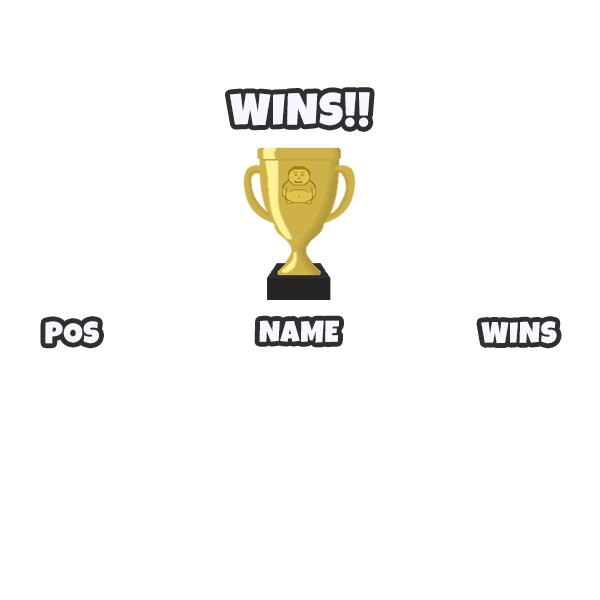
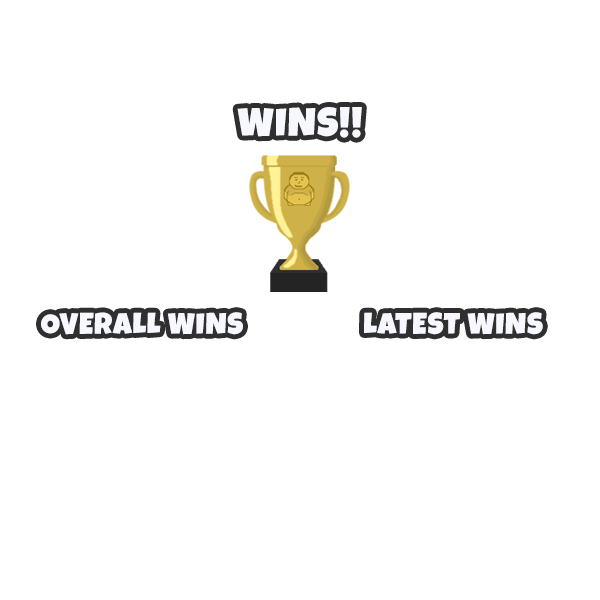
Update ScoreBoards

Changed region(s): [[0.06, 0.12, 0.63, 0.6], [0.6, 0.51, 0.96, 0.6]]

diff --git a/VictoryScreen.js b/VictoryScreen.js
@@ -1,4 +1,4 @@
-import { COLOUR } from './SharedConstants.js';
+import { COLOUR, truncateString } from './SharedConstants.js';
 import { db } from './Game.js';
 
 export default class VictoryScreen {
@@ -42,6 +42,7 @@ export default class VictoryScreen {
   update(deltaTime) {}
 
   updateDB(userName) {
+    const winTime = firebase.firestore.Timestamp.now().seconds;
     if (userName) {
       db.collection('winners')
         .where('userName', '==', userName)
@@ -53,6 +54,7 @@ export default class VictoryScreen {
               .add({
                 userName: userName,
                 winsTotal: 1,
+                lastWinTimeStamp: winTime,
               })
               .then(function (docRef) {})
               .catch(function (error) {
@@ -62,7 +64,13 @@ export default class VictoryScreen {
             querySnapshot.forEach(function (doc) {
               db.collection('winners')
                 .doc(doc.id)
-                .set({ winsTotal: doc.data().winsTotal + 1 }, { merge: true })
+                .set(
+                  {
+                    winsTotal: doc.data().winsTotal + 1,
+                    lastWinTimeStamp: winTime,
+                  },
+                  { merge: true }
+                )
                 .then(function () {})
                 .catch(function (error) {
                   console.error('Error writing document: ', error);
@@ -78,22 +86,43 @@ export default class VictoryScreen {
 
   draw(ctx) {
     ctx.drawImage(this.backGroundImage, 300, 50, 600, 600);
-    ctx.font = '50px luckiest_guyregular';
+    ctx.font = '40px luckiest_guyregular';
     ctx.fillStyle = this.winningTeamColour;
     ctx.textAlign = 'center';
 
-    ctx.fillText(`${this.winningTeam} BOY`, 605, 120);
+    ctx.fillText(`${this.winningTeam} BOY`, 605, 100);
+
+    if (this.winnerUserName) {
+      ctx.font = '30px luckiest_guyregular';
+      ctx.fillStyle = 'black';
+      ctx.textAlign = 'center';
+      ctx.fillText(this.winnerUserName, 605, 140);
+    }
 
     var startPosition = 430;
-    ctx.font = '30px luckiest_guyregular';
+    ctx.font = '24px luckiest_guyregular';
     ctx.fillStyle = 'black';
-    ctx.textAlign = 'center';
+    ctx.textAlign = 'left';
     if (this.game.topScorers) {
-      this.game.topScorers.forEach(function (element, i) {
-        ctx.fillText(i + 1, 370, startPosition);
-        ctx.fillText(element.userName, 605, startPosition);
-        ctx.fillText(element.winsTotal, 820, startPosition);
-        startPosition += 50;
+      this.game.topScorers.forEach(function (element) {
+        ctx.fillText(truncateString(element.userName), 320, startPosition);
+        ctx.fillText(element.winsTotal, 565, startPosition);
+        startPosition += 40;
+      });
+    }
+
+    var latestStartPosition = 430;
+    if (this.game.latestScorers) {
+      ctx.font = '24px luckiest_guyregular';
+      ctx.fillStyle = 'black';
+      ctx.textAlign = 'center';
+      this.game.latestScorers.forEach(function (element) {
+        ctx.fillText(
+          truncateString(element.userName),
+          750,
+          latestStartPosition
+        );
+        latestStartPosition += 40;
       });
     }
   }

diff --git a/Game.js b/Game.js
@@ -15,6 +15,7 @@ export default class Game {
   constructor(gameWidth, gameHeight, ctx, gameArea) {
     this.gameArea = gameArea;
     this.topScorers = [];
+    this.latestScorers = [];
     this.ctx = ctx;
     this.glassGame = null;
     this.gameWidth = gameWidth;
@@ -82,6 +83,7 @@ export default class Game {
     this.allPlayers = [];
     this.extractedPlayers = [];
     this.getLeaderboard();
+    this.getLatestWinners();
   }
 
   getLeaderboard() {
@@ -97,6 +99,26 @@ export default class Game {
                 id: doc.id,
                 userName: doc.data().userName,
                 winsTotal: doc.data().winsTotal,
+              });
+            } catch (error) {
+              console.log(error);
+            }
+          }
+        });
+      });
+  }
+  getLatestWinners() {
+    db.collection('winners')
+      .orderBy('lastWinTimeStamp', 'desc')
+      .limit(5)
+      .get()
+      .then((snapshot) => {
+        snapshot.docs.forEach((doc) => {
+          if (doc) {
+            try {
+              this.latestScorers.push({
+                id: doc.id,
+                userName: doc.data().userName,
               });
             } catch (error) {
               console.log(error);
@@ -199,6 +221,8 @@ export default class Game {
       );
       if (foundPlayer) {
         winnerUserName = foundPlayer.user;
+        this.latestScorers.unshift(winnerUserName);
+        this.latestScorers.pop();
       } else {
         winnerUserName = null;
       }

diff --git a/ContestantPanels.js b/ContestantPanels.js
@@ -1,4 +1,4 @@
-import { DIRECTIONS, COLOUR } from './SharedConstants.js';
+import { DIRECTIONS, COLOUR, truncateString } from './SharedConstants.js';
 
 export default class ContestantPanels {
   constructor(game) {
@@ -79,7 +79,7 @@ export default class ContestantPanels {
     var tempTeam = this.teamInformation.find(
       (object) => object.colour === team
     );
-    var truncatedName = this.truncate(userName);
+    var truncatedName = truncateString(userName);
     if (tempTeam) {
       tempTeam.userName = truncatedName;
     }
@@ -90,10 +90,6 @@ export default class ContestantPanels {
     ctx.fillStyle = 'black';
     ctx.textAlign = 'center';
     ctx.fillText(instruction, instructionPosition.x, instructionPosition.y);
-  }
-
-  truncate(str) {
-    return str.length > 15 ? str.substr(0, 15) + '...' : str;
   }
 
   draw(ctx) {

diff --git a/index.html b/index.html
@@ -57,7 +57,7 @@
 
     <div id="PageHeader1" style="position:absolute;text-align:left;left:0px;top:0px;width:100%;height:92px;z-index:7777;">
         <div id="wb_title" style="position:absolute;left:360px;top:17px;width:486px;height:59px;text-align:center;z-index:1;">
-            <span style="color:#FBFBFB;font-family:'MS Sans Serif';font-size:48px;"><strong>Chat Single Game v2</strong></span></div>
+            <span style="color:#FBFBFB;font-family:'MS Sans Serif';font-size:48px;"><strong>Chat Single Game v3</strong></span></div>
         <div id="wb_Text1" style="position:absolute;left:830px;top:62px;width:42px;height:30px;text-align:center;z-index:3;"></div>
     </div>
 

diff --git a/TwitchApi.js b/TwitchApi.js
@@ -57,7 +57,10 @@ export default class TwitchApi {
 
       switch (this.game.currentGameState) {
         case GAMESTATE.JOINING:
-          if (upperCaseMessageClean === 'JOIN') {
+          if (
+            upperCaseMessageClean === 'JOIN' ||
+            upperCaseMessageClean === '!JOIN'
+          ) {
             this.addUserToColour(clean_username, message);
           }
           break;

diff --git a/SharedConstants.js b/SharedConstants.js
@@ -5,6 +5,10 @@ export const GAMESTATE = {
   VICTORY: 3,
 };
 
+export const truncateString = (str) => {
+  return str.length > 15 ? str.substr(0, 15) + '...' : str;
+};
+
 export const COLOUR = {
   RED: 'RED',
   BLUE: 'BLUE',
